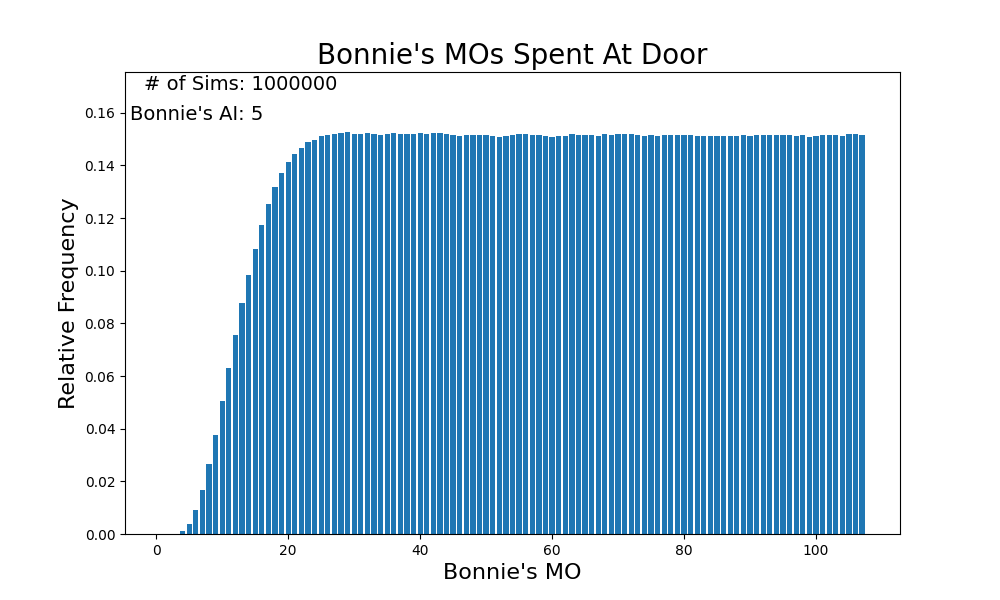
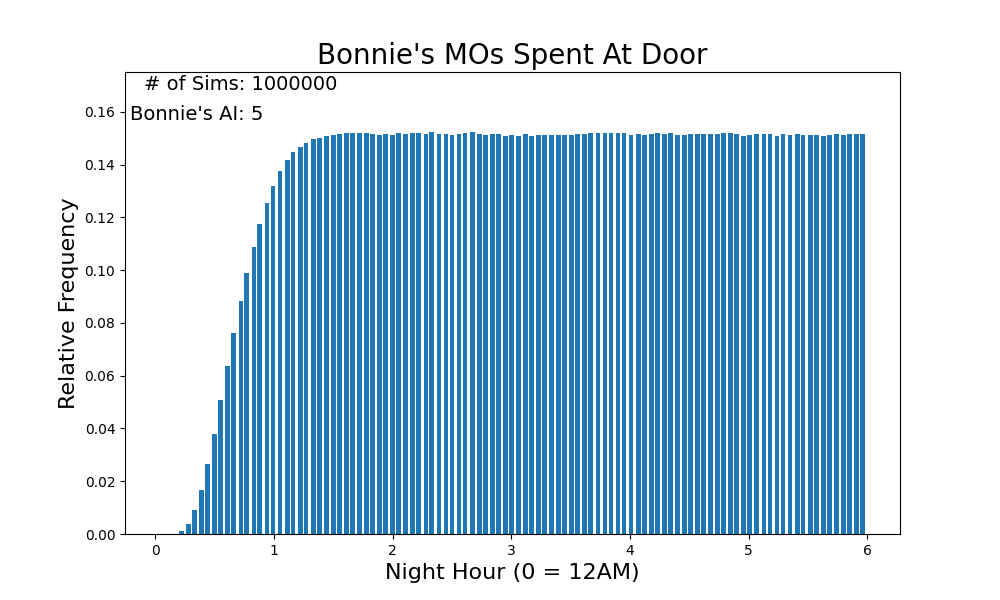
added a bunch of graphs

diff --git a/main.py b/main.py
@@ -2,14 +2,6 @@ import NightSim
 import matplotlib.pyplot as plt
 import numpy as np
 
-total_sim = 1000000
-bonnie_data = []
-bonnie_first_visits = []
-chica_data = []
-chica_first_visits = []
-bonnie_ai = 1
-chica_ai = 0
-
 def mo_to_secs(mo, ani):
     if (ani == "b"):
         total_time = mo * 4.97
@@ -27,65 +19,86 @@ def mo_to_secs(mo, ani):
             return 1 + (total_time / 89)
     return None
 
+total_sim = 1000000
+bonnie_ai = 20
+chica_ai = 20
+
+MO = [i for i in range(1, 108)]
+bonnie_mo = []
+chica_mo = []
+for i in range(1, 108):
+    bonnie_mo.append(round(mo_to_secs(i, "b"), 2))
+    chica_mo.append(round(mo_to_secs(i, "c"), 2))
+
+bonnie_data = [0 for i in range(1, 108)]
+bonnie_first_visits = [0 for i in range(1, 108)]
+chica_data = [0 for i in range(1, 108)]
+chica_first_visits = [0 for i in range(1, 108)]
+
 for _ in range(total_sim):
     x = NightSim.NightSim(bonnie_ai, chica_ai)
     visits = x.simulate()
-    '''
+
     for time in visits[0]:
-        bonnie_data.append(time)
+        bonnie_data[time - 1] += 1
     for time in visits[1]:
-        chica_data.append(time)
-    '''
+        chica_data[time - 1] += 1
+
     if (len(visits[0]) > 0):
-        bonnie_first_visits.append(visits[0][0])
+        bonnie_first_visits[visits[0][0] - 1] += 1
     if (len(visits[1]) > 0):
-        chica_first_visits.append(visits[1][0])
+        chica_first_visits[visits[1][0] - 1] += 1
 
-
-MO = np.arange(1, 108, 1)
-bonnie_first_dist = np.zeros(len(MO))
+'''
 for i in range(len(bonnie_first_visits)):
-    bonnie_first_dist[bonnie_first_visits[i] - 1] += 1
-plt.bar(MO, bonnie_first_dist)
+    bonnie_first_visits[i] /= total_sim
+    chica_first_visits[i] /= total_sim
 
 
+plt.figure(figsize=(10,6))
+plt.figtext(0.131, 0.85, "# of Sims: " + str(total_sim), size=14)
+plt.figtext(0.13,0.8, "Chica's AI: " + str(chica_ai), size=14)
+plt.xlabel("Night Hour (0 = 12AM)", size=16)
+plt.ylabel("Relative Frequency", size=16)
+plt.ylim(0, max(chica_first_visits)*1.15)
+plt.title("Chica's First Visit Distribution", size=20)
+plt.bar(chica_mo, chica_first_visits, width=0.04)
+
+plt.figtext(0.144, 0.85, "# of Sims: " + str(total_sim), size=14)
+plt.figtext(0.13,0.8, "Bonnie's AI: " + str(bonnie_ai), size=14)
+plt.xlabel("Night Hour (0 = 12AM)", size=16)
+plt.ylabel("Relative Frequency", size=16)
+plt.ylim(0, max(bonnie_first_visits)*1.15)
+plt.title("Bonnie's First Visit Distribution", size=20)
+plt.bar(bonnie_mo, bonnie_first_visits, width=0.04)
+'''
 ################################
 ### VISIT DISTRIBUTION CODE  ###
 ################################
 
-'''
-bonnie_clean_data = np.zeros(len(my_bars))
-for time in bonnie_data:
-    bonnie_clean_data[time - 1] += 1
-bonnie_clean_data = bonnie_clean_data / total_sim
 
+for i in range(len(bonnie_data)):
+    bonnie_data[i] /= total_sim
+    chica_data[i] /= total_sim
+'''
 plt.figure(figsize=(10, 6))
 plt.figtext(0.144, 0.85, "# of Sims: " + str(total_sim), size=14)
 plt.figtext(0.13,0.8, "Bonnie's AI: " + str(bonnie_ai), size=14)
-plt.xlabel("Bonnie's MO", size=16)
+plt.xlabel("Night Hour (0 = 12AM)", size=16)
 plt.ylabel("Relative Frequency", size=16)
-plt.ylim(0, max(bonnie_clean_data)*1.15)
+plt.ylim(0, max(bonnie_data)*1.15)
 plt.title("Bonnie's MOs Spent At Door", size=20)
-plt.bar(my_bars, bonnie_clean_data)
-plt.show()
+plt.bar(bonnie_mo, bonnie_data, width=0.04)
 
-
-my_bars = np.arange(1, 108, 1)
-print(my_bars)
-
-chica_clean_data = np.zeros(len(my_bars))
-for time in chica_data:
-    chica_clean_data[time - 1] += 1
-
-chica_clean_data = chica_clean_data / total_sim
+'''
 
 plt.figure(figsize=(10, 6))
-plt.figtext(0.144, 0.85, "# of Sims: " + str(total_sim), size=14)
+plt.figtext(0.131, 0.85, "# of Sims: " + str(total_sim), size=14)
 plt.figtext(0.13,0.8, "Chica's AI: " + str(chica_ai), size=14)
-plt.xlabel("Chica's MO", size=16)
+plt.xlabel("Night Hour (0 = 12AM)", size=16)
 plt.ylabel("Relative Frequency", size=16)
-plt.ylim(0, max(chica_clean_data)*1.15)
+plt.ylim(0, max(chica_data)*1.15)
 plt.title("Chica's MOs Spent At Door", size=20)
-plt.bar(my_bars, chica_clean_data)
-'''
+plt.bar(chica_mo, chica_data, width=0.04)
+
 plt.show()
